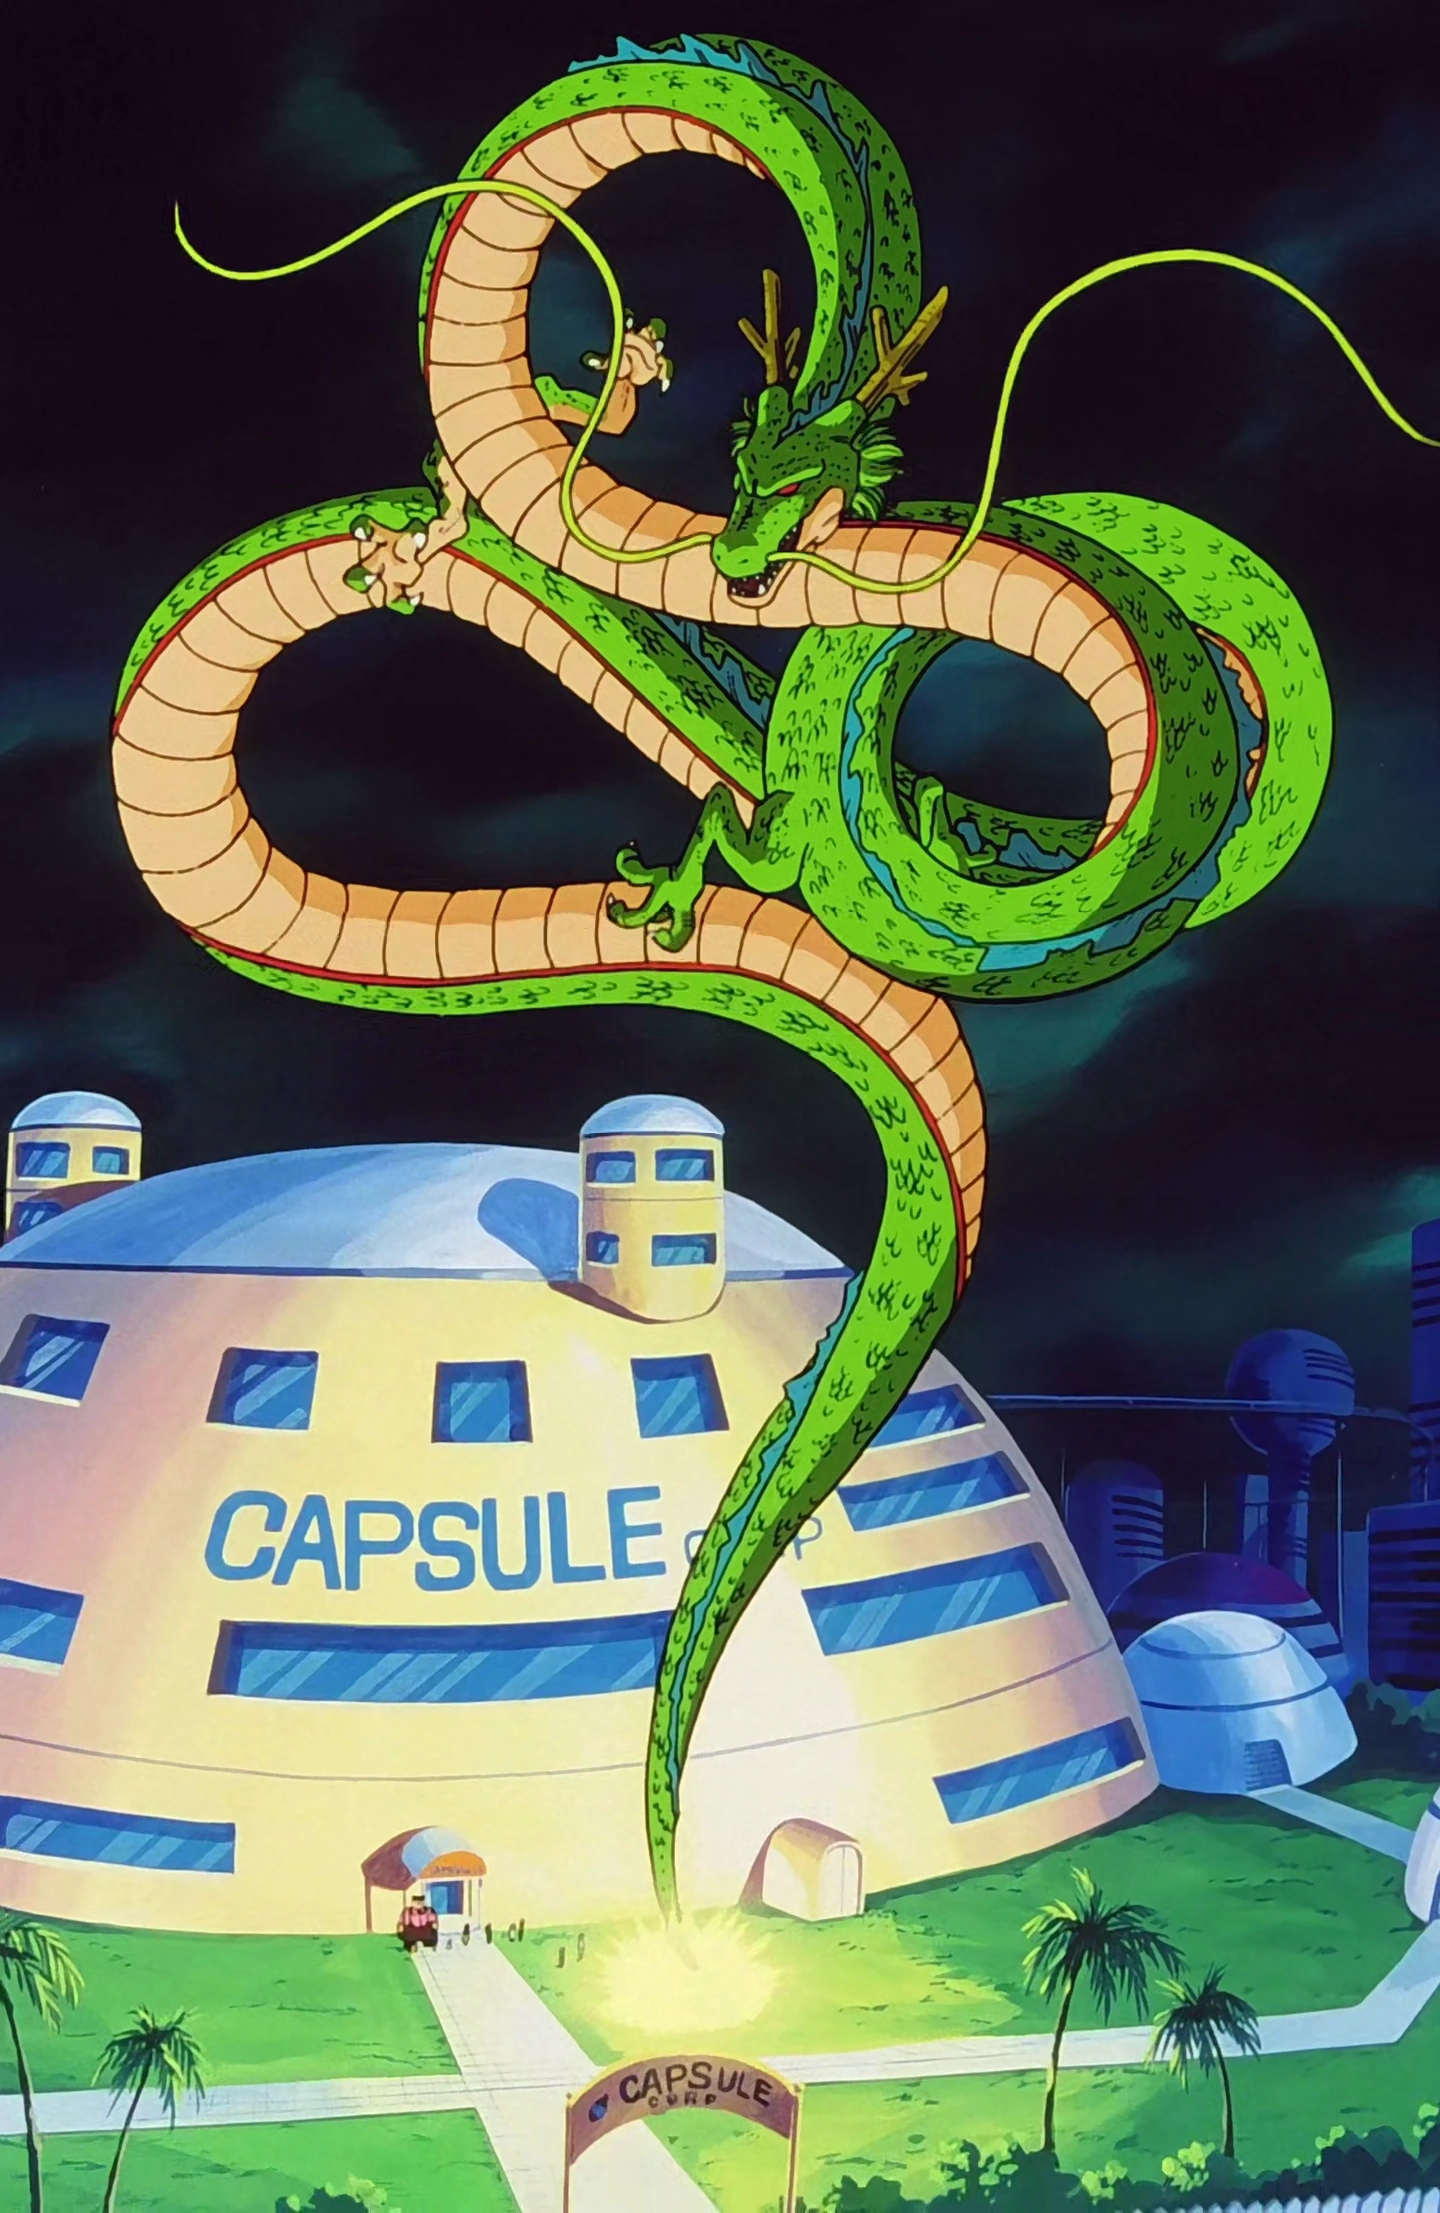
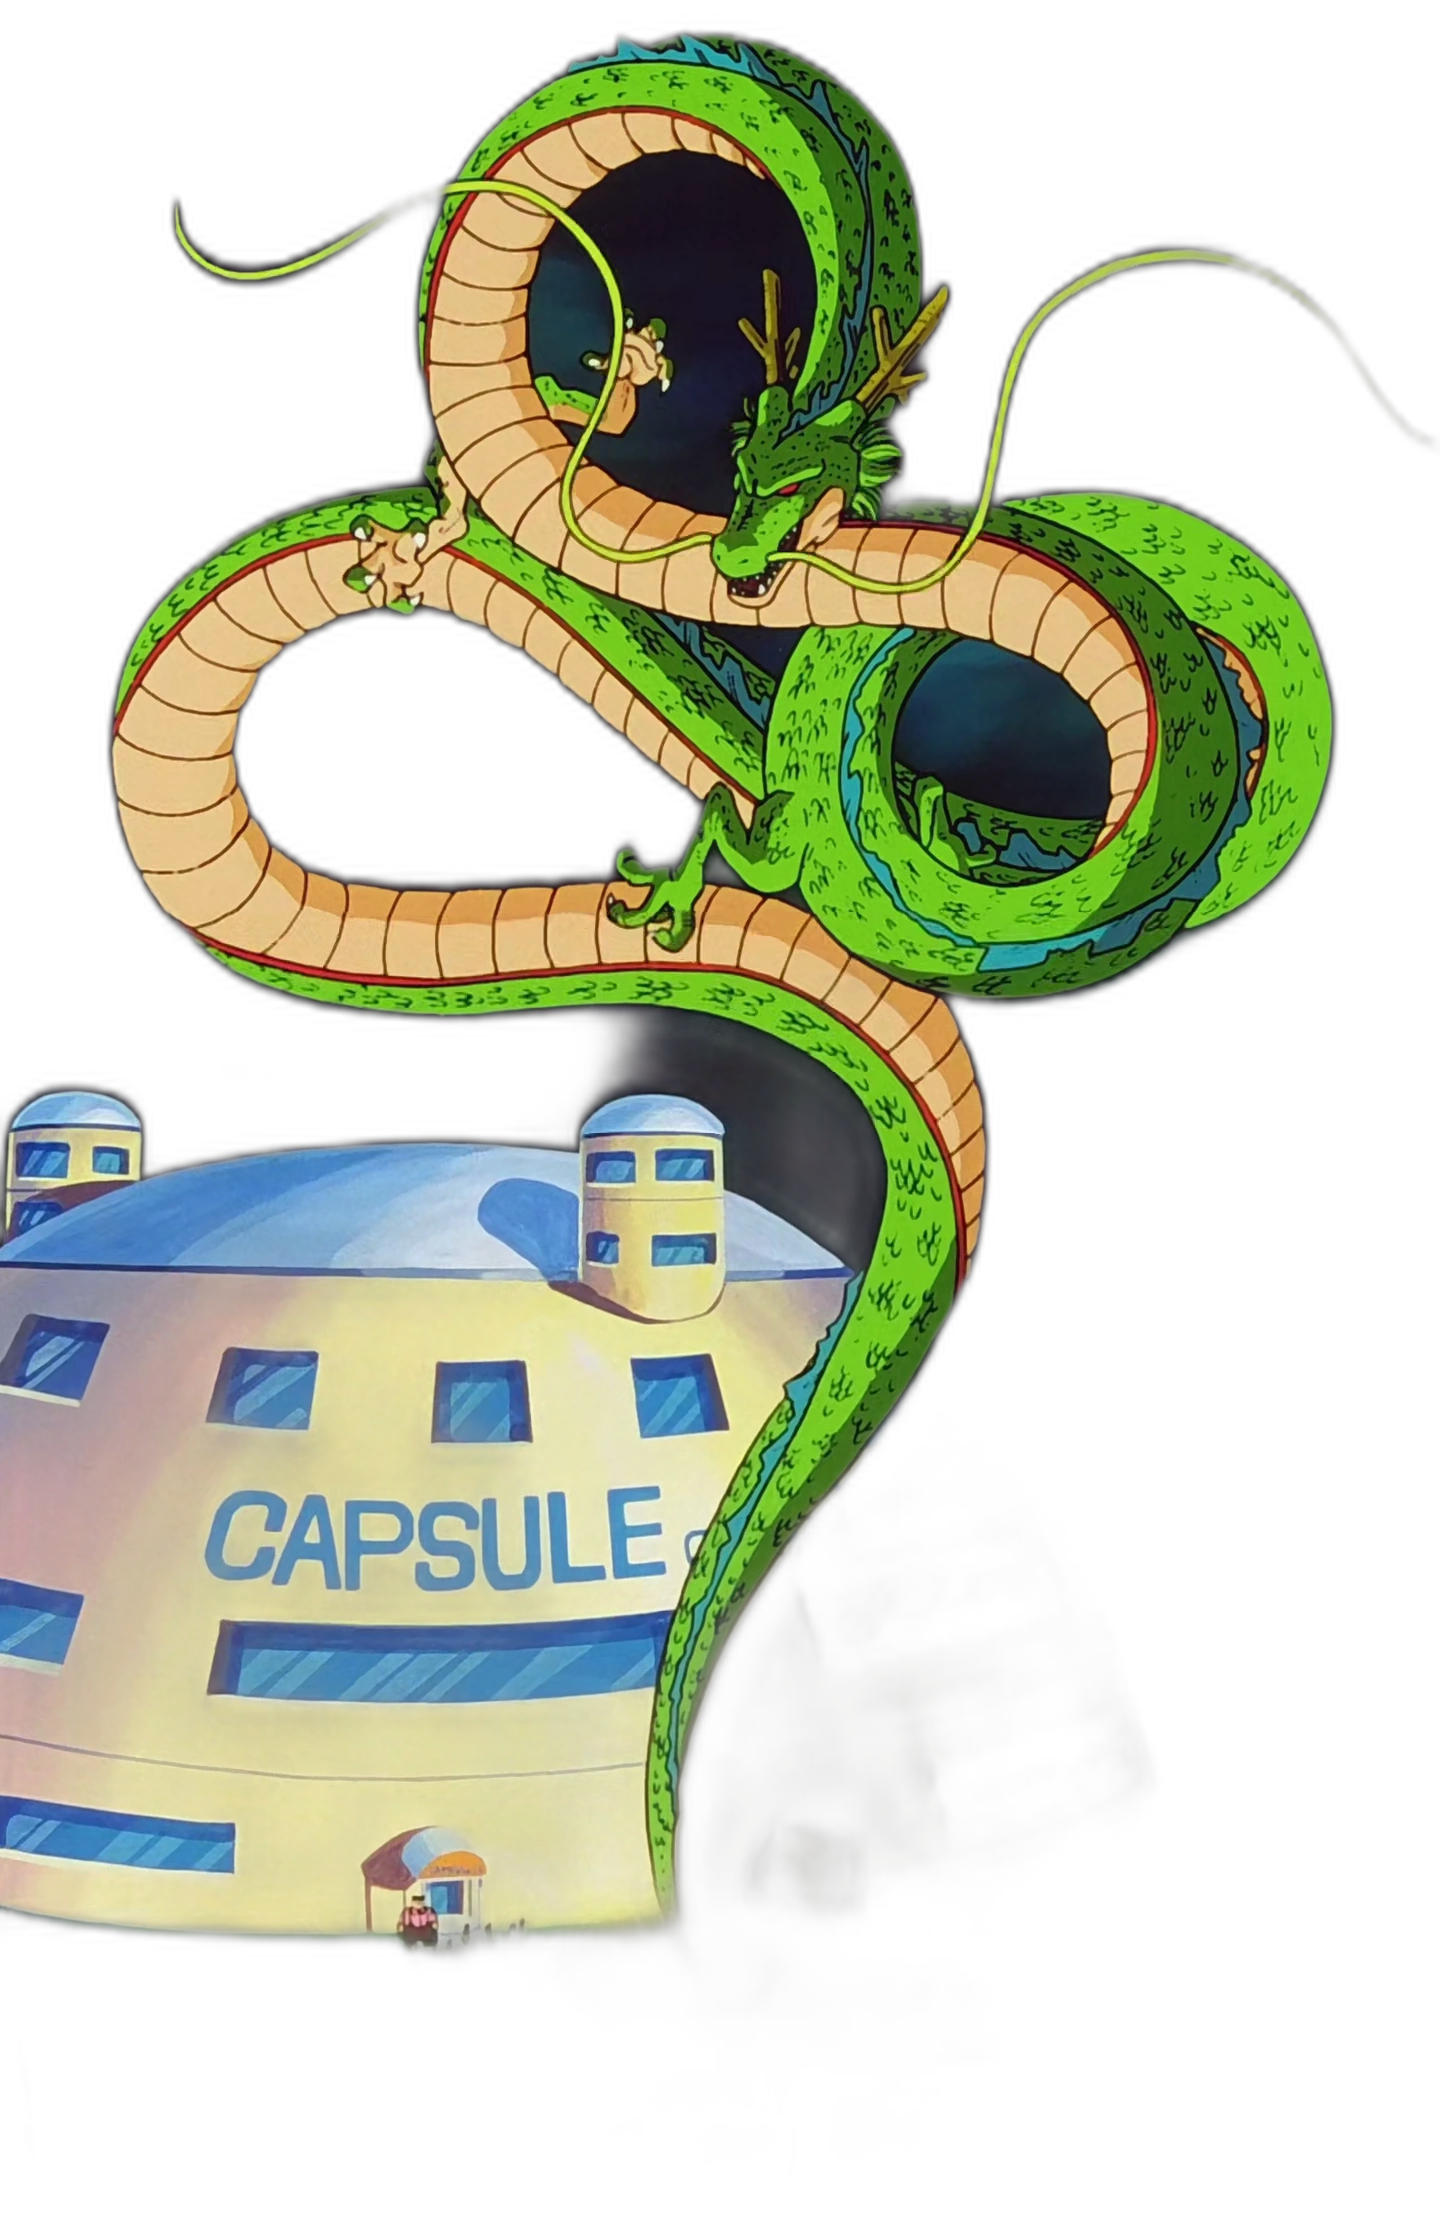
누끼(투명 배경) 처리 + 드래곤볼 토큰 보라색으로
- Fandom 출처 10종(신룡·폴룽가·오메가 흑성룡·우브·베이비·손오천)의 배경 제거
  → rembg(u2net)로 투명 PNG 누끼 처리, 게임 톤과 통일
- 마스터 토큰(궁극의 드래곤볼) 색을 노란 구슬과 구분되도록 골드→보라(#8b5cf6)
  · dragon_ball.svg, --ball-gold-rgb, 생성기 색상 갱신
- 규칙 확인: 희귀/전설 획득 시 드래곤볼 1개 필수(기존 구현 유지)

diff --git a/src/ui/styles.css b/src/ui/styles.css
@@ -217,7 +217,7 @@ button, input, select, textarea {
   --card-black-border-rgb: 226, 232, 240;
   --ball-pink-rgb: 235, 184, 210;
   --ball-yellow-rgb: 237, 232, 71;
-  --ball-gold-rgb: 162, 93, 158;
+  --ball-gold-rgb: 139, 92, 246;
   --ball-red: rgb(var(--ball-red-rgb));
   --ball-blue: rgb(var(--ball-blue-rgb));
   --ball-black: rgb(var(--ball-black-rgb));
